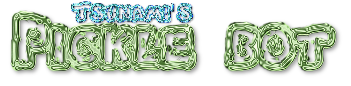
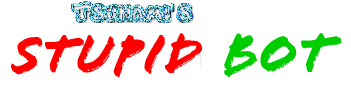
Add files via upload

diff --git a/pbot/pickle.html b/pbot/pickle.html
@@ -5,7 +5,7 @@
     <meta charset="UTF-8">
 
     <!-- Begin Jekyll SEO tag v2.3.0 -->
-    <title>Pickle</title>
+    <title>Stupid Bot</title>
     <meta property="og:title" content="Tsunami's Page">
     <meta property="og:locale" content="en_US">
     <link rel="canonical" href="https://retardedwave.github.io/">
@@ -37,7 +37,7 @@ border-bottom: 1px solid green;
 <p>Click <a href="https://tsunamiiii.github.io">here</a> to view my main page.</>
     <section class="main-content">
         <h1 id="tsunamis-picklebot"></h1>
-   <h2 id="pickle-bot-home">Pickle Bot</h2>
+   <h2 id="pickle-bot-home">Stupid Bot</h2>
   
     <li>
        <a href="cmdslist.html">
@@ -57,7 +57,7 @@ border-bottom: 1px solid green;
    <footer class="site-footer">
 <p> </p>
   <span class="site-footer-credits">This page was created by
-    <a href="https://github.com/RetardedWave">a Retarded Wave</a>.</span>
+    <a href="https://github.com/tsunamiiii">a Tsunami</a>.</span>
 </footer>
 </body>
 </html>
